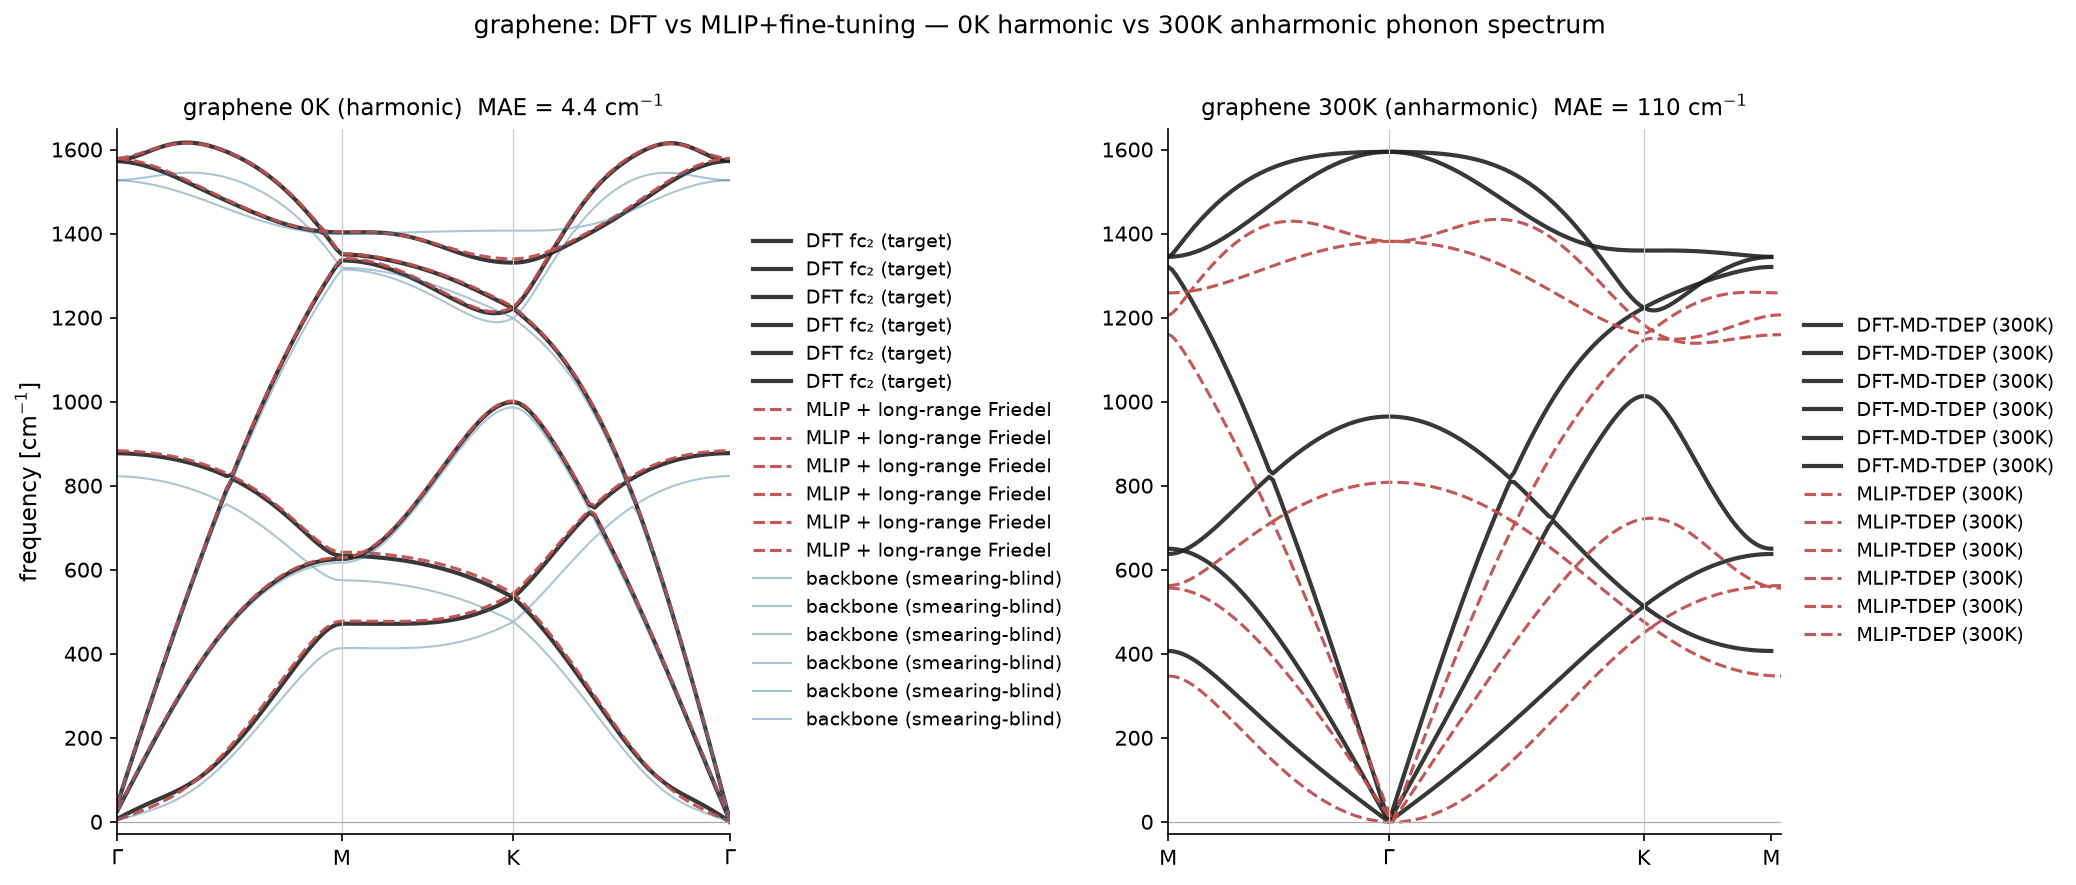
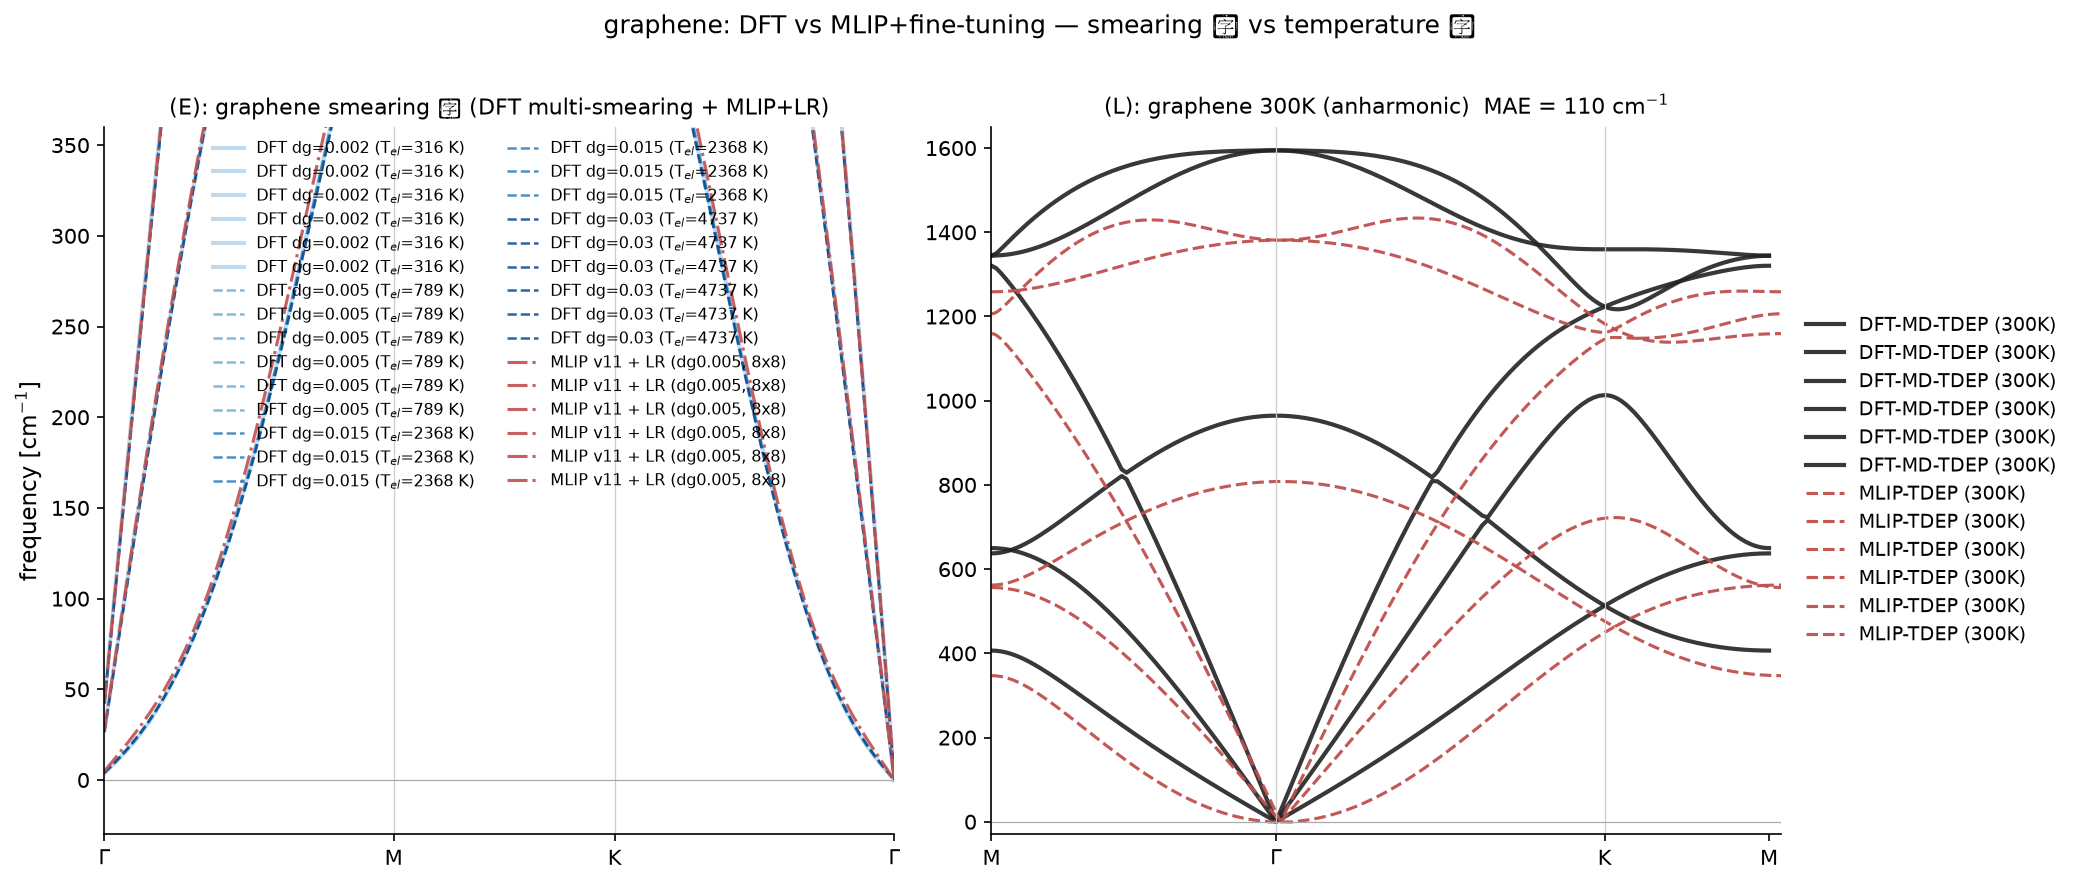
graphene figure: left panel now shows multi-smearing DFT (dg0.002-0.030) + MLIP+LR; right panel 300K TDEP

diff --git a/scripts/smearing_kink/plot_graphene_0K_300K.py b/scripts/smearing_kink/plot_graphene_0K_300K.py
@@ -1,37 +1,66 @@
-"""Combined graphene: 0K (DFT vs MLIP+LR) + 300K (DFT-MD-TDEP vs MLIP-TDEP) side-by-side."""
+"""Combined graphene: (E) multi-smearing (DFT vs MLIP+LR) + 300K (DFT-MD-TDEP vs MLIP-TDEP)."""
 from __future__ import annotations
 import sys, warnings
 from pathlib import Path
 import numpy as np
 warnings.filterwarnings("ignore")
 ROOT = Path(__file__).resolve().parents[2]
+HERE = Path(__file__).resolve().parent
+sys.path.insert(0, str(HERE)); sys.path.insert(0, str(ROOT / "src"))
 SK = ROOT / "results" / "smearing_kink"
 TD = ROOT / "results" / "td_phonon"
 
-import matplotlib
-matplotlib.use("Agg")
+import matplotlib; matplotlib.use("Agg")
 import matplotlib.pyplot as plt
 
 LABELS = ["$\\Gamma$", "M", "K", "$\\Gamma$"]
+POINTS = [np.array([0., 0., 0.]), np.array([.5, 0., 0.]),
+          np.array([1/3, 1/3, 0.]), np.array([0., 0., 0.])]
 
-# ---- 0K panel: DFT fc2 vs MLIP backbone+LR (from deploy_vs_dft_graphene_v11.npz) ----
+def band_structure(yaml_path, nseg=40):
+    import phonopy
+    ph = phonopy.load(str(yaml_path), is_compact_fc=False)
+    qs = []
+    for i in range(len(POINTS) - 1):
+        q0, q1 = POINTS[i], POINTS[i + 1]
+        for j in range(1, nseg + 1):
+            qs.append(q0 + (q1 - q0) * j / nseg)
+    qs = np.array(qs)
+    ph.run_qpoints(qs, with_dynamical_matrices=False)
+    freq = np.array(ph.get_qpoints_dict()["frequencies"]) * 33.356
+    seglen = np.linalg.norm(np.diff(qs, axis=0), axis=1)
+    x = np.concatenate([[0.0], np.cumsum(seglen)])
+    seg = len(x) // 3
+    tick = [x[0], x[seg - 1], x[2 * seg - 1], x[-1]]
+    return x, freq, tick
+
+# ---- Left: (E) multi-smearing DFT vs MLIP+LR ----
+dft_yamls = {
+    0.002: ROOT / "results" / "vq_kink6" / "graphene_sc6_dg0.002_phonopy.yaml",
+    0.005: ROOT / "results" / "vq_kink6" / "graphene_sc6_dg0.005_phonopy.yaml",
+    0.015: ROOT / "results" / "vq_kink6" / "graphene_sc6_dg0.015_phonopy.yaml",
+    0.030: ROOT / "results" / "vq_kink6" / "graphene_sc6_dg0.030_phonopy.yaml",
+}
+dft_data = {}
+for dg, yml in sorted(dft_yamls.items()):
+    if yml.exists():
+        x, f, tick = band_structure(yml)
+        dft_data[dg] = (x, f, tick)
+        print(f"  DFT dg{dg}: shape {f.shape}")
+
+# MLIP+LR deploy (8x8, T_el=789=dg0.005)
 dep = np.load(SK / "deploy_vs_dft_graphene_v11.npz", allow_pickle=True)
-qs0 = dep["qs"]
-seglen = np.linalg.norm(np.diff(qs0, axis=0), axis=1)
-x0 = np.concatenate([[0], np.cumsum(seglen)])
-seg = len(x0) // 3
-tick0 = [x0[0], x0[seg-1], x0[2*seg-1], x0[-1]]
+qs8 = dep["qs"]
+seglen8 = np.linalg.norm(np.diff(qs8, axis=0), axis=1)
+x8 = np.concatenate([[0], np.cumsum(seglen8)])
+seg8 = len(x8) // 3
+tick8 = [x8[0], x8[seg8 - 1], x8[2 * seg8 - 1], x8[-1]]
 
-# 0K = T_el=789K (dg0.005, sharpest = closest to 0K harmonic)
-dft_0K = dep["dft_T789"]   # DFT fc2 band structure (cm⁻¹)
-mlip_0K = dep["mlip_T789"]  # MLIP backbone + Friedel LR (cm⁻¹)
-bb_0K = dep["backbone"]      # MLIP backbone alone (smearing-blind)
-
-# ---- 300K panel: DFT-MD-TDEP vs MLIP-TDEP ----
+# ---- Right: 300K ----
 dft300 = np.load(TD / "graphene_dft_tdep.npz", allow_pickle=True)
 mlip300 = np.load(TD / "td_graphene_ft.npz", allow_pickle=True)
 x300_dft = dft300["T300_dist"]
-dft_300K = dft300["T300_freq"] * 33.356   # THz -> cm⁻¹
+dft_300K = dft300["T300_freq"] * 33.356
 x300_mlip = mlip300["T300_dist"]
 mlip_300K = mlip300["T300_freq"] * 33.356
 ticks300 = dft300["label_positions"]
@@ -40,38 +69,52 @@ labels300 = [str(l) for l in dft300["labels"]]
 # ---- plot ----
 fig, (ax1, ax2) = plt.subplots(1, 2, figsize=(14, 5.8))
 
-# Panel 1: 0K
-ax1.plot(x0, dft_0K, color="#222", lw=2.0, alpha=0.9, label="DFT fc₂ (target)")
-ax1.plot(x0, mlip_0K, color="#c0504d", lw=1.5, ls="--", alpha=0.95, label="MLIP + long-range Friedel")
-ax1.plot(x0, bb_0K, color="#2f6f9f", lw=1.0, alpha=0.4, label="backbone (smearing-blind)")
-ax1.set_xticks(tick0); ax1.set_xticklabels(LABELS)
-for xt in tick0[1:-1]: ax1.axvline(xt, color="#ccc", lw=0.6)
+cmap = plt.cm.Blues
+dgs = sorted(dft_data.keys())
+nd = len(dgs)
+for i, dg in enumerate(dgs):
+    x, f, tick = dft_data[dg]
+    Tel = dg * 157888
+    col = cmap(0.30 + 0.60 * i / max(nd - 1, 1))
+    lw = 2.0 if dg == min(dgs) else 1.2
+    ls = "-" if dg == min(dgs) else "--"
+    ax1.plot(x, f, color=col, lw=lw, ls=ls, alpha=0.85,
+            label=f"DFT dg={dg} (T$_{{el}}$={Tel:.0f} K)")
+
+ax1.plot(x8, dep["mlip_T789"], color="#c0504d", lw=1.5, ls="-.", alpha=0.9,
+        label="MLIP v11 + LR (dg0.005, 8x8)")
+
+ax1.set_xticks(tick8 if dgs else tick)
+ax1.set_xticklabels(LABELS)
+for xt in (tick8 if dgs else tick)[1:-1]:
+    ax1.axvline(xt, color="#ccc", lw=0.6)
 ax1.axhline(0, color="#aaa", lw=0.6)
 ax1.set_ylabel("frequency [cm$^{-1}$]", fontsize=11)
-ax1.set_ylim(-30, 1650)
-ax1.set_xlim(tick0[0], tick0[-1])
-mae0 = np.mean(np.abs(mlip_0K - dft_0K))
-ax1.set_title(f"graphene 0K (harmonic)  MAE = {mae0:.1f} cm$^{{-1}}$", fontsize=11)
-ax1.legend(loc="center left", bbox_to_anchor=(1.01, 0.5), frameon=False, fontsize=9)
-for s in ("top", "right"): ax1.spines[s].set_visible(False)
+ax1.set_ylim(-30, 360)
+ax1.set_xlim(0, tick8[-1])
+ax1.legend(loc="upper center", frameon=False, fontsize=7.5, ncol=2)
+ax1.set_title("(E): graphene smearing 谱 (DFT multi-smearing + MLIP+LR)", fontsize=10.5)
+for s in ("top", "right"):
+    ax1.spines[s].set_visible(False)
 
-# Panel 2: 300K
 ax2.plot(x300_dft, dft_300K, color="#222", lw=2.0, alpha=0.9, label="DFT-MD-TDEP (300K)")
 ax2.plot(x300_mlip, mlip_300K, color="#c0504d", lw=1.5, ls="--", alpha=0.95, label="MLIP-TDEP (300K)")
-ax2.set_xticks(ticks300); ax2.set_xticklabels(labels300)
-for xt in ticks300[1:-1]: ax2.axvline(xt, color="#ccc", lw=0.6)
+ax2.set_xticks(ticks300)
+ax2.set_xticklabels(labels300)
+for xt in ticks300[1:-1]:
+    ax2.axvline(xt, color="#ccc", lw=0.6)
 ax2.axhline(0, color="#aaa", lw=0.6)
 ax2.set_ylim(-30, 1650)
-ax2.set_xlim(min(x300_dft[0], x300_mlip[0]), max(x300_dft[-1], x300_mlip[-1]))
-# MAE needs interpolation to common grid
-from numpy import interp
+xmax300 = max(float(x300_dft[-1]), float(x300_mlip[-1]))
+ax2.set_xlim(0, xmax300)
 dft_interp = np.array([np.interp(x300_mlip, x300_dft, dft_300K[:, b]) for b in range(dft_300K.shape[1])]).T
 mae300 = np.nanmean(np.abs(mlip_300K - dft_interp))
-ax2.set_title(f"graphene 300K (anharmonic)  MAE = {mae300:.0f} cm$^{{-1}}$", fontsize=11)
+ax2.set_title(f"(L): graphene 300K (anharmonic)  MAE = {mae300:.0f} cm$^{{-1}}$", fontsize=10.5)
 ax2.legend(loc="center left", bbox_to_anchor=(1.01, 0.5), frameon=False, fontsize=9)
-for s in ("top", "right"): ax2.spines[s].set_visible(False)
+for s in ("top", "right"):
+    ax2.spines[s].set_visible(False)
 
-fig.suptitle("graphene: DFT vs MLIP+fine-tuning — 0K harmonic vs 300K anharmonic phonon spectrum", fontsize=12, y=1.01)
+fig.suptitle("graphene: DFT vs MLIP+fine-tuning — smearing 谱 vs temperature 谱", fontsize=12, y=1.01)
 fig.tight_layout()
 out = SK / "graphene_0K_vs_300K.png"
 fig.savefig(out, dpi=150, bbox_inches="tight")
